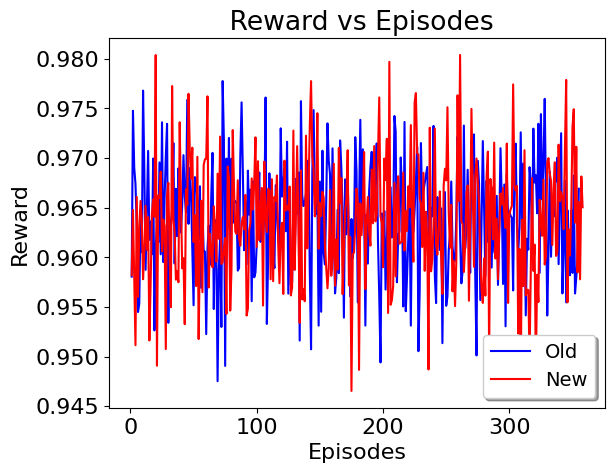
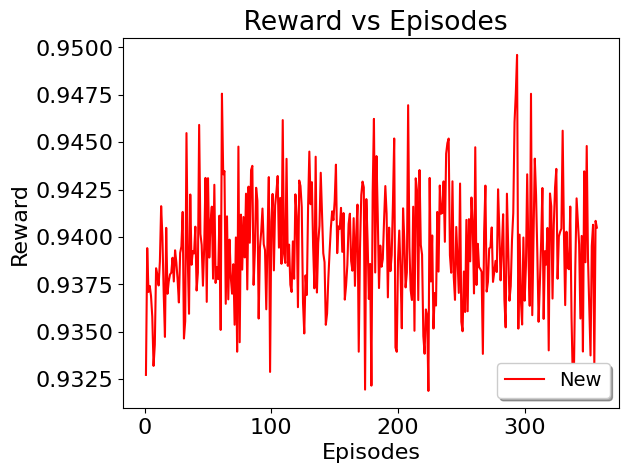
testing with graph of 16 nodes with substrate diff

diff --git a/Deep_QLearning_5G-master/view_results.py b/Deep_QLearning_5G-master/view_results.py
@@ -33,14 +33,13 @@ arrival_rate = "20"
 
 
 
-lost_r= [0.9581858748055574, 0.9647814025543558, 0.9580483428651939, 0.9511449493030031, 0.9660810853139997, 0.9560020300987232, 0.9630275651499981, 0.9656708172095586, 0.9637206999109784, 0.9577918773083134, 0.9606916326303376, 0.9651955342291461, 0.9607560514180578, 0.9640493999868696, 0.9516199036448719, 0.957414553535541, 0.964267839800461, 0.9658306378662705, 0.9640750909057249, 0.9803750399456955, 0.9490727361984199, 0.966213402227917, 0.9659680403821969, 0.9686262477849615, 0.9606025128145318, 0.9638074778044263, 0.9631306441262938, 0.9507512273377529, 0.9662205535449402, 0.9674996301305687, 0.9602076609599083, 0.9549696532337749, 0.9772520046667438, 0.963847772565045, 0.9625632875282049, 0.9577443474316844, 0.9585917729342018, 0.9574860253796897, 0.9736039259646149, 0.96556432158518, 0.9588880332745978, 0.9599100264802036, 0.95326079523351, 0.9668352458641515, 0.9652833241495006, 0.9764720292188168, 0.9707708695006239, 0.9679294760004087, 0.9710427532791793, 0.961555454419036, 0.9642348172535502, 0.9571022343591864, 0.9701197422271736, 0.9517628346670178, 0.9605941373618724, 0.9656934713066476, 0.9564818157735591, 0.9693152248005884, 0.9698784327567179, 0.9699334168609582, 0.9762167341001801, 0.9569588270823841, 0.9623722805931344, 0.9608096551533254, 0.9589971489614251, 0.9651367734727518, 0.9626897547395795, 0.9595673774110778, 0.9684255805284635, 0.9618642033379297, 0.972160751106323, 0.9593307534756126, 0.9594849473500395, 0.9609626890126273, 0.9619446170457926, 0.9542941211944198, 0.9691506241258047, 0.9679945728975938, 0.9546295329456734, 0.9587185432646521, 0.9728209380915456, 0.9669702066133543, 0.9625877507005777, 0.9623610974917087, 0.9677594287436301, 0.9619296282825973, 0.9611650217080812, 0.9633970273995576, 0.9640407843346777, 0.962817821977084, 0.9662824370563271, 0.9541320976117713, 0.9548250017590314, 0.9626947829854636, 0.9634683260623451, 0.9679483600900556, 0.9648109596928003, 0.9674641478697704, 0.9720839655935322, 0.9610510073730345, 0.9696800718132477, 0.961725182170567, 0.9649183669960384, 0.9669871237796012, 0.9551392010868562, 0.9696396666376215, 0.9642655637040725, 0.9625563291611955, 0.9669137662502317, 0.9667556277569941, 0.9577804089253392, 0.9678675757313653, 0.9575903058107642, 0.9660650708708831, 0.9656709384810884, 0.9682458408655225, 0.9612879078486902, 0.9573872663890697, 0.9628160268335615, 0.963469639477232, 0.9563059490986294, 0.969732631591791, 0.9647212042700721, 0.9651816520297875, 0.964753882933552, 0.96712680883422, 0.9561584348491478, 0.9569366007750145, 0.9727641721733229, 0.9587412231317449, 0.9641323314001949, 0.971193209357355, 0.9632974457460164, 0.9533839912347677, 0.9687463173545017, 0.9557619715459063, 0.9567766420064596, 0.9555731514944322, 0.9722556008672402, 0.9608988569639306, 0.9667587214107284, 0.9731472651231314, 0.9777523870933218, 0.9701485238934282, 0.9688872296579984, 0.9641277416463284, 0.9659621239919566, 0.9745145439028048, 0.9608607706085208, 0.9654555122556701, 0.9641640450768212, 0.9665915568815394, 0.9659977148880128, 0.961126763881114, 0.9590724125775523, 0.9568740701324872, 0.958898878649723, 0.96676271035949, 0.9581410382199594, 0.9599269319733074, 0.9694247493826725, 0.9571423554970881, 0.9617781291830343, 0.9587600980299975, 0.9710230577432053, 0.9654942646627629, 0.9679725383376223, 0.9562844932459683, 0.9606545274495383, 0.9646262891816125, 0.9658474145151696, 0.970789993390535, 0.9571689011920994, 0.9620430440360808, 0.9465367382115638, 0.9602900301593348, 0.960471359319107, 0.9632052662225093, 0.9669134939766266, 0.9655916580208095, 0.9486617564558785, 0.965414048939782, 0.9622392003253749, 0.9651477716645721, 0.9706032551045322, 0.9567919837179386, 0.9632761120722747, 0.9660801110476356, 0.962593518336762, 0.9611720457241186, 0.9688428996960179, 0.963422430318797, 0.9712049748171288, 0.9636175995479184, 0.9643471378408888, 0.970177780869598, 0.9761031582500971, 0.9641666596146021, 0.9634655075556012, 0.9589958971283198, 0.969947175505605, 0.9677840761537666, 0.9719365506775638, 0.9543921536363567, 0.979690866818968, 0.9552136565232989, 0.955681096674587, 0.9570902411225785, 0.9674930303891465, 0.958076149404488, 0.9662451594694346, 0.9681672587705987, 0.9613570538999338, 0.9614961681907577, 0.9615689590058305, 0.9685408836893747, 0.9606768583215274, 0.9646580238873789, 0.9626494769879148, 0.9671532031544187, 0.965022592172458, 0.9733238829700553, 0.9643020084900936, 0.9595546557614656, 0.9755912341064431, 0.976543375828818, 0.9704808545738584, 0.9703641425601055, 0.9659044819507597, 0.9654269571919791, 0.9610356431193324, 0.9685132417187762, 0.9586389199771311, 0.9645815389444874, 0.9617812829852407, 0.9486970919976344, 0.9730565264067158, 0.9585875308002874, 0.9598052874248738, 0.9633949233970278, 0.9729734817920447, 0.9612860457363267, 0.9602650711336247, 0.9631015193099884, 0.9666368190930877, 0.9600547529551229, 0.9563200366753274, 0.9672358673339929, 0.9689201865368542, 0.967746227666591, 0.975115012209619, 0.964539599031035, 0.9609606589079551, 0.9652873764750198, 0.9565743740718406, 0.9596624226689521, 0.9550792414438671, 0.9595045469297052, 0.9763208690554233, 0.9656523476614274, 0.9803884244951092, 0.9636362801525497, 0.9633498006426001, 0.9585190989263076, 0.9611813309519671, 0.9664643418088453, 0.96723779855798, 0.9556233181991471, 0.9633766059785812, 0.9749513787600403, 0.9672060231845937, 0.9590441248144096, 0.9680705033923487, 0.9699514390801094, 0.9676361076191501, 0.9654924843401822, 0.9596627099082172, 0.9566961241291141, 0.9554006469177434, 0.959889912585539, 0.9561418846527835, 0.9682015540403026, 0.9706438962953348, 0.9497660649678988, 0.9678877885423188, 0.9666715127814878, 0.961799193955215, 0.9715518195474336, 0.9598790164883697, 0.9638903270952836, 0.9577966288652661, 0.9624123792029611, 0.9664252764239403, 0.9653070672876404, 0.9669789866175299, 0.9642391402667818, 0.962957920457071, 0.9714566913075028, 0.9554028767019115, 0.9642877458379528, 0.9648289473851499, 0.9651658460574419, 0.9774221087309067, 0.9672367050002897, 0.9667224744138759, 0.9671934527069364, 0.9523242386777656, 0.9608368324811848, 0.9469065008176613, 0.9637803367484091, 0.9570994907110745, 0.9707856780119783, 0.9561596639926218, 0.9567444541672315, 0.9566967234476211, 0.9497739809912427, 0.9589538417394131, 0.9679796470599497, 0.9586359930643663, 0.9612783302154522, 0.9486258034521284, 0.9582404970682696, 0.9554932170518063, 0.965797504683001, 0.9635789950107502, 0.9621654650366821, 0.967822756720101, 0.9592737175900342, 0.9600730713534256, 0.9696135114723904, 0.9699893150334143, 0.9684279759384081, 0.9676902294527272, 0.9612380237523029, 0.9668442892713974, 0.9695754477295595, 0.9601396929993945, 0.960521134593322, 0.9713455096525084, 0.9656466342314718, 0.9665673791988368, 0.9659839282639515, 0.9628367752985703, 0.9708683101918306, 0.9778683785244782, 0.9554625474577151, 0.9627937979499602, 0.9601713675045569, 0.9647821317636018, 0.9731733858469729, 0.9749159290714574, 0.9634911169427608, 0.9711310477187782, 0.9584821256784475, 0.965593983929151, 0.9577831131402794, 0.968141672845494, 0.9650405101709857]
+lost_r= [0.9327242341292055, 0.9394083411281918, 0.9370988747520309, 0.9374163070545528, 0.9368885338843506, 0.935786548504758, 0.9331985398188983, 0.9343160970464053, 0.9383482449127304, 0.9379966534292341, 0.9374410008002483, 0.9387011484847757, 0.9416217280251223, 0.9400012457983079, 0.9370560181269812, 0.9347289260721134, 0.9404783272541523, 0.9370013365429611, 0.9376516133359344, 0.9380189407064072, 0.938112715365738, 0.9389007691693376, 0.9376505371261693, 0.9392940614045023, 0.9386493150540414, 0.9377365193356874, 0.9365448088719948, 0.9391567294814845, 0.9394989588602827, 0.9413184200421316, 0.9346432419474812, 0.9355641302466586, 0.9454747490040617, 0.9388994151549558, 0.9359479833891194, 0.9422369001482259, 0.9385309703669583, 0.9392598193477351, 0.939128298778371, 0.9405408768427939, 0.9371746317025591, 0.9381195610649702, 0.9459074198147619, 0.9401594066891575, 0.9395775210540103, 0.9374273794158743, 0.9394804361774892, 0.9431121919351254, 0.9365760700243505, 0.9430980985665616, 0.9389124587050214, 0.9407540095967295, 0.9415952111788485, 0.9377985629914759, 0.9427502673523803, 0.9375739163666083, 0.9384132887227794, 0.937773006942746, 0.9411198183286976, 0.9350950935769908, 0.9475538365309429, 0.9432994146732274, 0.9434731388168975, 0.9364731750294335, 0.941085406007217, 0.9367073777739952, 0.9398558554443361, 0.9378571152979498, 0.937005925800579, 0.9385617127797655, 0.9353701183362647, 0.9399719180432482, 0.9339474598963916, 0.9447621730528393, 0.9344458225246147, 0.9411756206583923, 0.9382770554419595, 0.9410491591643338, 0.9389195180275087, 0.9422811405939762, 0.9372311574919884, 0.9426521237654202, 0.939693688587522, 0.9435244848440844, 0.9437474878186132, 0.9374702788187292, 0.9392839997599169, 0.9425920635549078, 0.9419041815329904, 0.935695764064021, 0.9394334396423213, 0.9402800111338904, 0.9414967169850426, 0.9396154528195718, 0.9393073627978314, 0.9361841940478638, 0.9399594063409941, 0.9431551607049447, 0.9328813548219842, 0.9408117199198317, 0.942267403168077, 0.9382357932555505, 0.9416609638312335, 0.9423730963933321, 0.9432130012039635, 0.9394352046708873, 0.9420559929679326, 0.938583030467699, 0.9461609553146443, 0.9391184161839746, 0.9386306544168207, 0.944118243430796, 0.9384736479789205, 0.9395928739317273, 0.937480961763774, 0.9370989327760928, 0.9397651186120518, 0.9377924981879426, 0.9422457515293617, 0.941091213541614, 0.93629445274636, 0.9429741392187136, 0.9426861084307455, 0.9415786290008163, 0.936532371916997, 0.9349099607462665, 0.9379727941332099, 0.9369398465703578, 0.9415571560206953, 0.9444994740270682, 0.9417241769906586, 0.9428867139218409, 0.9394702618752713, 0.9372885922992831, 0.9442293316873015, 0.9370676425647375, 0.9396897792115579, 0.9405881195482201, 0.943383991721354, 0.9412873003420122, 0.9391402295493264, 0.938669870455984, 0.9353652460827853, 0.9359580649825975, 0.9378103224577664, 0.9392276921812273, 0.9404931643516266, 0.9413503982755356, 0.940887800083507, 0.9418895140943163, 0.9438111510246906, 0.9391458482227104, 0.9405534507820648, 0.9404276436075331, 0.9415316682916602, 0.939213391884549, 0.941259256355188, 0.9366937916305361, 0.9374332890679962, 0.938513448368891, 0.9406855712126256, 0.9412252743640221, 0.9387308387986952, 0.93821819523813, 0.9409890270112568, 0.9374188190754185, 0.9401217961602791, 0.9417045569283291, 0.933947672138741, 0.9394066832826955, 0.9422057324145013, 0.9429172409930966, 0.9426166487521213, 0.9319487611464574, 0.9419953507058667, 0.9398054110790703, 0.9367273705692655, 0.9385754054822371, 0.9321574229474511, 0.9423341209979689, 0.9462250437307772, 0.9381243663388551, 0.9442624039061828, 0.9411972772412244, 0.9373041862744507, 0.9395426503136346, 0.9384274211969134, 0.9388389137769245, 0.9408819818472712, 0.9426829012386053, 0.9412194984387267, 0.9368125431989314, 0.9404907548398098, 0.9381960901097876, 0.9390345116729929, 0.94177556106875, 0.9451907796544686, 0.9341687368118657, 0.9339424575880628, 0.9387410797451388, 0.9403368095023592, 0.938184741660309, 0.9351813782087468, 0.9415087507672418, 0.9397811907643114, 0.9373369240581874, 0.9381329503019256, 0.946945258431595, 0.939477843195635, 0.9371974858818133, 0.9366728089074361, 0.9415933218424646, 0.935051922425696, 0.9430925801649475, 0.9424561654868724, 0.936670111739332, 0.9435265221217581, 0.9395786227427784, 0.939064735741764, 0.9347716218266484, 0.9338396914486782, 0.936176375782925, 0.9358532573045428, 0.9318792824358931, 0.943111035676645, 0.9376489425272787, 0.9400766327733594, 0.9351668866082803, 0.9370445485582329, 0.9363821072122399, 0.94131728189335, 0.9381723126691636, 0.9427106878051473, 0.9412236098425508, 0.9412650128668487, 0.9429288862952909, 0.9397424750577885, 0.9443890649460192, 0.944947466877646, 0.9451866735698883, 0.9390357030901044, 0.9381106597117689, 0.9429331591560692, 0.9379055569405512, 0.936680211181855, 0.9405258919190205, 0.9387186618395853, 0.9370481534990953, 0.9428155497781161, 0.935524413348328, 0.9350258405142887, 0.9381766786410722, 0.9360402151608268, 0.9408989043781739, 0.9360793841353497, 0.9409387435638936, 0.9387128164617615, 0.9420798062457756, 0.9406131923601172, 0.9370200028142619, 0.9447280799906106, 0.9374666599855692, 0.9396375216776985, 0.9384122540596467, 0.9383050309528371, 0.93816185966161, 0.9338330688457324, 0.9402619171411976, 0.9427060012604952, 0.937118246612135, 0.9376234504422633, 0.9393864872247003, 0.9394591386715838, 0.9404999458182328, 0.9376286487671112, 0.9381521290869139, 0.938737454092894, 0.9381492945806593, 0.9425119111627319, 0.940355654254248, 0.9377088108395663, 0.9393564900958469, 0.9411961320813212, 0.9366920348578925, 0.9352314058736517, 0.9422797768380038, 0.9394342514973009, 0.9366360051922563, 0.9374036285287322, 0.9398297071996949, 0.9412559275485414, 0.9460479406198108, 0.9475602441614336, 0.9495977461912335, 0.9351647222235205, 0.9401209442711165, 0.9367076402188164, 0.9353807719141011, 0.9399692112924316, 0.9366376833242225, 0.9384632489352833, 0.9433016014539823, 0.938976884823545, 0.9363689269796266, 0.9475486805787342, 0.9358744400648646, 0.9398472606973963, 0.9441286307457097, 0.9422086301564456, 0.9391330054574977, 0.935524603996617, 0.9375306189653386, 0.9397266255384407, 0.942579896263886, 0.9356757717691061, 0.9392504984863583, 0.9385412782955316, 0.940474211201643, 0.9340175940072905, 0.9422912702441698, 0.9416102873172889, 0.9367499261173912, 0.9406352906641924, 0.9426225856747912, 0.9435888520546174, 0.9377946374877048, 0.9400196816042253, 0.9402668937823327, 0.9404372737223919, 0.9456013621675422, 0.9401952991919326, 0.9364038760328905, 0.9402751186692319, 0.938367967738655, 0.9382965499569926, 0.9416013616080232, 0.9357630569740769, 0.932468286318405, 0.9333443562606459, 0.9384769220373821, 0.9420335145558021, 0.9407810392509903, 0.9396070457155322, 0.9356967664814138, 0.940052601908388, 0.9339561620458932, 0.9434577406651696, 0.9386638698884499, 0.9447945348557817, 0.9388907556883425, 0.9363581229822536, 0.9337513736512203, 0.9395236272142052, 0.940640636654807, 0.9332950274634191, 0.9408476264708113, 0.9404899303580865]
 
 
 
 
 
-lost_r_old =   [0.9580515766348305, 0.9747608835264678, 0.9690392264387427, 0.9673748137090085, 0.9631347996660501, 0.9544880881423876, 0.9553358837484024, 0.9647164601581008, 0.9605163249912212, 0.976791630831353, 0.9687767671162291, 0.9587368484093538, 0.9647518695378375, 0.9707206728430783, 0.9617602255096621, 0.963603982287206, 0.9603031415302363, 0.9699469503270337, 0.9526345885982311, 0.9611070457681389, 0.9630708115401595, 0.9615108748251162, 0.9695549489016265, 0.9603005835891765, 0.9735964022631781, 0.9595204166602459, 0.9657951080451124, 0.9701460301287002, 0.9734447379526089, 0.9533986739393878, 0.9624291061371929, 0.9633356990084094, 0.9647917503002416, 0.9715036815805184, 0.959371341406969, 0.9669004321850615, 0.9621294672797742, 0.9689572430582499, 0.9653432175462648, 0.9624951458905484, 0.9653602188295077, 0.9702868107711559, 0.9661242243131944, 0.9645374912404591, 0.9758657079428082, 0.9633735064772626, 0.9689904014091739, 0.9662934036934673, 0.9608386241574975, 0.9551675550194116, 0.9680806573777613, 0.9678033644331824, 0.9656597600475204, 0.961860757950783, 0.9671488152942893, 0.9569334285663104, 0.964589879858642, 0.9605962603152574, 0.9605771160929696, 0.952259137339851, 0.9608755210659922, 0.9631861914959865, 0.9592478688464009, 0.9662808668909998, 0.9705211514482484, 0.9547881639116653, 0.963744874196037, 0.961417589118465, 0.9475175306473225, 0.9588076891570475, 0.9618869806316463, 0.9529810313079865, 0.9777578194536443, 0.9718011350015043, 0.9490542209985549, 0.9699426119117294, 0.9629849785411034, 0.9720240198952524, 0.9562349669171674, 0.9699391558769925, 0.9634571869414146, 0.9655231231174229, 0.9656732969190794, 0.9654257011254787, 0.9586558564016481, 0.9589239051928234, 0.9702739383042378, 0.9756078585375046, 0.968627542980699, 0.9607133795713079, 0.9656503242031834, 0.9593112293093637, 0.9687304720651452, 0.9642936511281285, 0.9668250589703354, 0.9555729642019177, 0.9676557839484229, 0.9579826871384524, 0.9584744961838767, 0.9613921942200006, 0.9657804121073963, 0.9685386894529238, 0.9615544908493088, 0.9651466857874805, 0.9620308107136378, 0.9642400526683723, 0.9760972635504345, 0.9532845033552939, 0.9595852611558532, 0.9684593696789623, 0.9634139833068598, 0.9661742738469498, 0.9603373973644755, 0.9589089117933066, 0.9672630083558575, 0.9645756649459837, 0.9619106877615704, 0.9610827775703776, 0.9729918901807201, 0.9661185341161173, 0.967385143219668, 0.9689293968956452, 0.9626255794880416, 0.9716414731886029, 0.9563410774476264, 0.966395007364635, 0.9572180942949515, 0.9574991723465386, 0.9650815299093956, 0.958768252073955, 0.967905060057933, 0.9644083826076216, 0.9685456466887477, 0.9516130160892825, 0.9757294970039425, 0.9662354924226417, 0.9651618375402992, 0.9655374306174277, 0.9664337982882925, 0.9697251925080316, 0.9692936258510518, 0.9586216521948956, 0.9507310496304743, 0.9685846643317215, 0.9748323670588105, 0.9662870582817786, 0.9643579330868459, 0.9663060931440903, 0.9531169040005573, 0.9676267785545016, 0.9545138116663994, 0.9707360387248836, 0.9604362714289809, 0.9592754840852555, 0.9655027812068695, 0.9734914933037964, 0.9697608697246398, 0.9683873449008786, 0.9610126735966988, 0.9709747238010438, 0.9628712352168025, 0.956366924331321, 0.957978674069165, 0.9647837110362505, 0.9584070037981933, 0.9717743538063806, 0.9689709515657282, 0.9645743415797053, 0.9539187640615022, 0.9678521690504319, 0.9623170327842309, 0.9676154343571888, 0.9624012165322348, 0.9560732748946662, 0.9638467299596367, 0.9599386515379021, 0.962343954591179, 0.9721001012543039, 0.9686954434895613, 0.9554518090205267, 0.965174179172578, 0.9738480888985888, 0.9636804243550118, 0.970881877375997, 0.9655286403331969, 0.9531198670702093, 0.9642952894389446, 0.9593666276585702, 0.9666858097769591, 0.9690907982053103, 0.9706270672298865, 0.9676139659586914, 0.9648660666930097, 0.9687260894660099, 0.9714721979290459, 0.9614993397263084, 0.9560632075379765, 0.9494050885172567, 0.964418859859236, 0.9606175666604326, 0.9646713331301944, 0.9567496153104135, 0.9613637530622549, 0.966329824814684, 0.9598870056115915, 0.9670485509062349, 0.9619997523620926, 0.9628807450440718, 0.974232527639723, 0.9726447643087469, 0.9574851218743311, 0.9622187494299032, 0.9625888934588129, 0.9700586474215928, 0.9666170961204289, 0.9550463805584427, 0.9736344049897493, 0.9545659213100359, 0.958086658192746, 0.9619376897194042, 0.9653097676595691, 0.9531180651868814, 0.9652447615516021, 0.9625373889531187, 0.9647750319976567, 0.9676380174179926, 0.9711295651216727, 0.9505409391988181, 0.9566143286665897, 0.9715120585055305, 0.964856405819361, 0.9667368236673424, 0.9674772926996014, 0.9682970382441503, 0.9690988109614727, 0.962379018333107, 0.958598843999302, 0.964938296685491, 0.9641201377205318, 0.9732373280800858, 0.9581376683965408, 0.9553862688120711, 0.966063754666362, 0.962206654422947, 0.9607277537027294, 0.96492336880141, 0.9513502711142924, 0.963475521429302, 0.9665707559511078, 0.955110090595176, 0.9560778118421505, 0.960701271061354, 0.9622925344485195, 0.9676318556479873, 0.9611257019590673, 0.9596677633770772, 0.9596279184427841, 0.9640219258160674, 0.9721457326409597, 0.9689144178875272, 0.9622229670075858, 0.9573752628987968, 0.9585773528782756, 0.9732688548889169, 0.9608915273867502, 0.9629560001292666, 0.9688183456073335, 0.9617051725986553, 0.958436850023663, 0.9717148227876502, 0.9684853686388857, 0.9723773008511059, 0.9580402436050087, 0.9501097670160569, 0.9697153588055707, 0.967458128996464, 0.9556927223349209, 0.9636750818378214, 0.9717104435321093, 0.964856249556161, 0.9581072565146296, 0.96771949527079, 0.9615538856729136, 0.9653393874559906, 0.9653744573230455, 0.958963824707425, 0.9669901289967051, 0.9605981223622283, 0.9601578747109764, 0.9661931268422989, 0.9572180803108923, 0.9630737518253416, 0.9709891272245, 0.9657598654824331, 0.9573129112259611, 0.9673292459125836, 0.9530462045794479, 0.9683718869690762, 0.964063356415534, 0.9646108368701073, 0.9641816150138828, 0.9639686698583247, 0.9566591992814156, 0.9688598818663794, 0.9714538419566939, 0.9634009985615114, 0.960443728457403, 0.9629736079256934, 0.9725889804523133, 0.9627627357254854, 0.9694401539403887, 0.9635172156752864, 0.9541455342374487, 0.9618673764395952, 0.9607675343671602, 0.9690753882558961, 0.9673633753748807, 0.9617832438519038, 0.9729628213524116, 0.9675305906293417, 0.9682664224549482, 0.9644317813237543, 0.973453877830508, 0.9584371707781035, 0.9744229872685672, 0.965833349328494, 0.9694834532452085, 0.9759638966932257, 0.9656065108058154, 0.9541358760968323, 0.9607950493343813, 0.9686403516802145, 0.9600517270654255, 0.966089613878813, 0.9640984610629442, 0.9682391029802876, 0.9676331997540766, 0.9700386294034613, 0.9593098377349741, 0.9658130190012773, 0.9725009101878274, 0.9563584380453558, 0.9608128172532512, 0.9677240008585297, 0.9554529780839971, 0.9647428590645464, 0.9599803206952322, 0.9581914343887293, 0.9647356693595022, 0.9584262841377578, 0.9682255304056165, 0.9563501974478172, 0.9579584862936181, 0.9599293215043697, 0.9669073603426803]
-
+lost_r_old =  [0.9615563253231892, 0.979038181940265, 0.9734032860244857, 0.9709927426758811, 0.9668530698086321, 0.9570539936654261, 0.9581190373375749, 0.96819058694494, 0.963700606716753, 0.9816390046257981, 0.9731274436233371, 0.9620738428914061, 0.9685019876621184, 0.9750483211957315, 0.9653503602532993, 0.9671534945644601, 0.9632745983144353, 0.9740162460190842, 0.9549676016189146, 0.9638285631106639, 0.9662666756285521, 0.9647788139431905, 0.9737904204570681, 0.9632356944052544, 0.9780612792296346, 0.9621670456333142, 0.9689928604467462, 0.9745857338240818, 0.9776484085912468, 0.9555847164478118, 0.9657514299021707, 0.966279687990414, 0.968147709138395, 0.9754573854305982, 0.9622935448264116, 0.9707078211015802, 0.9656127180617288, 0.9727144671450916, 0.968937804692627, 0.9653602606921365, 0.9691041595911634, 0.9745618128938401, 0.969634075769091, 0.9675897200738611, 0.9810221179638342, 0.9665260692928814, 0.9730040584801095, 0.9701821430982781, 0.963770709496643, 0.9576495230013748, 0.9720474565780525, 0.9711929862927464, 0.969509262933937, 0.9643399690888945, 0.9710322597385812, 0.9595594985085854, 0.9676097407732426, 0.9629788945129472, 0.9632755977270506, 0.9542370533450445, 0.9636249791228513, 0.9664783284335801, 0.9620806397989118, 0.9700798533041982, 0.9750247416867153, 0.9574731657142864, 0.9671718807562117, 0.9644044305608269, 0.948712939551007, 0.9614731609283705, 0.9649438418670739, 0.9554533809140939, 0.982995570495815, 0.9758997954519985, 0.9502768089731859, 0.9733744811543921, 0.9659490586995199, 0.9761723452371902, 0.9585950516679375, 0.9737094311048402, 0.9666128162267299, 0.9684999731354442, 0.968975867132441, 0.9688342347689136, 0.9614550067743676, 0.9615568892706394, 0.9735280259767148, 0.9802717184270977, 0.9725496800213785, 0.9634077365563088, 0.9688984891756239, 0.9610957789165397, 0.9715249400798345, 0.9673296931039285, 0.9707169047159652, 0.9580297296877122, 0.9712594769492896, 0.9603732785591558, 0.9608809121350863, 0.9642402328389519, 0.9687767770412216, 0.972022440556118, 0.9641565301243907, 0.968165335839416, 0.9642410359687058, 0.9673374608484957, 0.980610884837527, 0.9547923090020686, 0.9618363651455842, 0.9723011404890217, 0.966586100636627, 0.9692301097379873, 0.9627429007785742, 0.9614972859113352, 0.9702781207474378, 0.9680643319052507, 0.9647980923309226, 0.9630494909616761, 0.9770832912659398, 0.9691950851639359, 0.9707985371615189, 0.97200883320375, 0.9658026340584274, 0.9751541038054884, 0.9586200916139894, 0.969008178462842, 0.959879200364175, 0.9602827041922578, 0.9680880158306029, 0.9608793901400954, 0.9712904807759002, 0.967307796600265, 0.9719362217207715, 0.9532692622352174, 0.9798856749918847, 0.9698109382882787, 0.9685234398697814, 0.9685766780495182, 0.9695631327215976, 0.9738573413567624, 0.9727232476758223, 0.960890736291731, 0.9522580616855555, 0.9717580754337907, 0.9795491145173665, 0.9690711824885274, 0.9673064115018852, 0.9695450410633467, 0.9551721453621923, 0.9709472572266998, 0.9566155960433941, 0.9737984744651378, 0.9631661296472588, 0.9622883629592078, 0.9680017570099011, 0.9775246914258098, 0.9733862302383577, 0.971941224716454, 0.9641461151891388, 0.9748171165940421, 0.9662617318951576, 0.9592136347990023, 0.9602373755130792, 0.9674643718726974, 0.9611852985816697, 0.9759486546249443, 0.9723208395139593, 0.9680042014579301, 0.9558042640684266, 0.9715390967112496, 0.9649136545141673, 0.9707930653960579, 0.9648431331027121, 0.957642755087409, 0.9664291671200579, 0.9629590487330952, 0.9658354865456458, 0.9761957267141426, 0.9723512170262941, 0.9575220204895398, 0.968529705671839, 0.978448793245363, 0.9668879019895251, 0.9745713502630378, 0.9690552099212022, 0.9548631179558902, 0.9669924835499311, 0.9611972446951206, 0.9701927007721882, 0.9725544178364574, 0.9743192609202341, 0.9709571714684849, 0.9683451408030596, 0.9723986082101279, 0.9755823717704357, 0.9637745478741662, 0.957820685447809, 0.9503573315631699, 0.967432791482299, 0.9632168530453793, 0.9682082969828295, 0.9586877406656678, 0.9645727704308065, 0.9697590068983833, 0.9628864341083738, 0.969934976579847, 0.9652275884548537, 0.9657913379500346, 0.9782634080617432, 0.9765926525090581, 0.9599876553509955, 0.9648887392584812, 0.9652409195213772, 0.9734557572546654, 0.9700581017100229, 0.9572280526207829, 0.9775516382909509, 0.9569637070963795, 0.9613095532295963, 0.9643752752176364, 0.9685212077794655, 0.954801152864681, 0.9690381928714141, 0.9651395396724461, 0.9677341747321908, 0.9706247656761624, 0.974841196479754, 0.9526134438318768, 0.9588219898360343, 0.9750163358105496, 0.9677080933702257, 0.9703519591054367, 0.9711447694016189, 0.971733098416624, 0.9729206827251701, 0.9653483861978468, 0.9613561043013327, 0.9681024720357947, 0.967574666026122, 0.9777073792458212, 0.9608191214143134, 0.9575593524954519, 0.9691809542948335, 0.9650433856804524, 0.9632525868708263, 0.968033052638382, 0.9526675851294667, 0.9665524238300853, 0.9696719760470283, 0.9573403470179331, 0.9582597162682556, 0.9635079888240118, 0.9647416249492097, 0.9714546493095368, 0.9638921906804788, 0.9627101390248333, 0.9617136193161286, 0.9667042917650942, 0.9761969462291852, 0.9723193628675244, 0.9654814038051577, 0.9600103042000494, 0.9612489220671402, 0.9771965284233182, 0.9634083557302321, 0.9656490189600195, 0.9720023518480543, 0.9651228001848944, 0.9609074823482615, 0.9759077967642377, 0.9719576802856027, 0.9763125726944815, 0.9603582401979109, 0.9519190420043179, 0.9735293250660693, 0.9708087214887189, 0.9567794327037992, 0.9665723427198042, 0.9751513000273517, 0.967963529241714, 0.9606614708318091, 0.9710791976330672, 0.9639857821638276, 0.9688557070007181, 0.9688976283882244, 0.9619211401411927, 0.9703113737817459, 0.9631056999718179, 0.9631962133502763, 0.9695375172197901, 0.9593327254654175, 0.9660182988378349, 0.9744280954512626, 0.9691533813489225, 0.9592992382662637, 0.9700866060034253, 0.9545647237644467, 0.9717407106512729, 0.9668147880042238, 0.967817596259744, 0.9671850087635467, 0.966995969183283, 0.9589894616130722, 0.9725938101163688, 0.9751627686104167, 0.9662905336021147, 0.9621713033713691, 0.966476773455826, 0.9764301300892931, 0.9654458701002689, 0.9731903369148248, 0.9666994317429706, 0.9563040757433883, 0.9645453246881807, 0.9635717768089531, 0.9729049677998264, 0.9712257108014086, 0.964596523787173, 0.976953889591193, 0.9711733515767299, 0.9718314865545208, 0.9675544915734675, 0.9775890212271039, 0.9606686981458017, 0.9786692191547274, 0.9695921696427074, 0.9731264667270784, 0.98005285001534, 0.9685422224811354, 0.9560289395703538, 0.9633830253716766, 0.9719093586021761, 0.9625935735136124, 0.9695439144820998, 0.9674266428223574, 0.9712143851675704, 0.9708445065468622, 0.9738876660257257, 0.9622295227644727, 0.9693284847989025, 0.9754858709218397, 0.9582076492011501, 0.9634539351240562, 0.9705237590004814, 0.957628770473291, 0.9669125599014248, 0.962607408968319, 0.961286433547768, 0.9678783613776076, 0.9602562609721149, 0.9712289735833002, 0.9588146962024439, 0.9601850627206808, 0.9623121146325087, 0.9704497058318454]
 
 
 font = {'family' : 'sans-serif',
@@ -53,7 +52,7 @@ for i in range(355):
    x.append(i+1)
 
 
-for i in range(358):
+for i in range(357):
     y.append(i+1)
 # Profit
 
@@ -67,7 +66,7 @@ lost_r_old_2 =[]
 #plt.bar(range(len(lost_r_old)), lost_r_old)
 
 
-plt.errorbar(x,lost_r_old,fmt="-", color="blue",ecolor="lightgray",capsize=2, label= "Old")
+#plt.errorbar(x,lost_r_old,fmt="-", color="blue",ecolor="lightgray",capsize=2, label= "Old")
 plt.errorbar(y,lost_r,fmt="-", color="red",ecolor="lightgray",capsize=2,label= "New")
 
 

diff --git a/Deep_QLearning_5G-master/substrate_graphs.py b/Deep_QLearning_5G-master/substrate_graphs.py
@@ -231,14 +231,14 @@ substrate16 = {"directed": False, "multigraph": False,
     { "p":0.982,  "cpu": 100, "id": 2, "l": 0.0578}, 
     { "p":0.991,  "cpu": 100, "id": 3,  "l": 0.0578}, 
     { "p":0.975,  "cpu": 100, "id": 4, "l": 0.0578}, 
-    { "p":0.991,  "cpu": 100, "id": 5, "l": 0.0578}, 
+    { "p":0.989,  "cpu": 100, "id": 5, "l": 0.0578}, #0.991
     { "p":0.995,  "cpu": 100, "id": 6, "l": 0.0578}, 
     { "p":0.989,  "cpu": 100, "id": 7, "l": 0.0578}, 
     { "p":0.982,  "cpu": 100, "id": 8, "l": 0.0578}, 
     { "p":0.995,  "cpu": 100, "id": 9, "l": 0.0578}, 
     { "p":0.976,  "cpu": 100, "id": 10, "l": 0.0578}, 
     { "p":0.975,  "cpu": 100, "id": 11, "l": 0.0578}, 
-    { "p":0.991,  "cpu": 100, "id": 12, "l": 0.0578}, 
+    { "p":0.989,  "cpu": 100, "id": 12, "l": 0.0578}, #0.991
     { "p":0.982,  "cpu": 100, "id": 13, "l": 0.0578}, 
     { "p":0.996,  "cpu": 100, "id": 14, "l": 0.0578}, 
     { "p":0.974,  "cpu": 100, "id": 15, "l": 0.0578}], 
